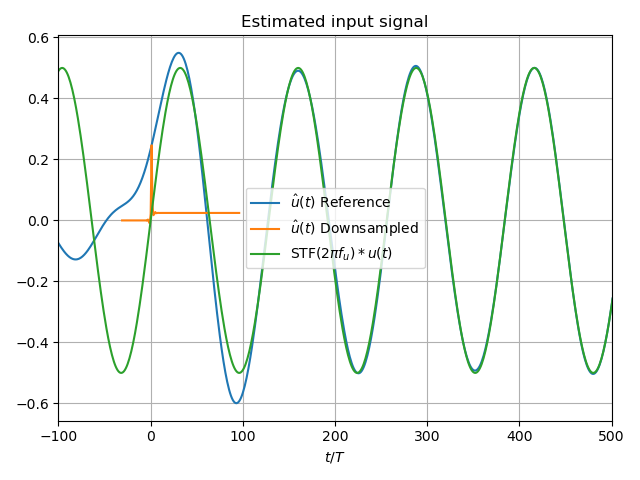
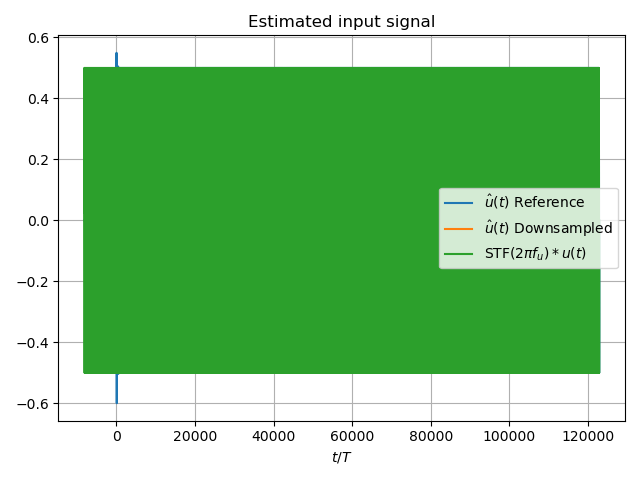
updates to downsample

diff --git a/docs/source/auto_examples/b_general/plot_c_downsample.rst b/docs/source/auto_examples/b_general/plot_c_downsample.rst
@@ -243,7 +243,7 @@ which then defaults to 1, i.e., no downsampling.
     print(f"eta2 = {eta2}, {20 * np.log10(eta2)} [dB]")
 
     # Set the filter size
-    L1 = 1 << 12
+    L1 = 1 << 13
     L2 = L1
 
     # Instantiate the digital estimator.
@@ -267,25 +267,25 @@ which then defaults to 1, i.e., no downsampling.
     FIR estimator is parameterized as 
     eta2 = 115878063.84, 161 [dB],
     Ts = 8e-05,
-    K1 = 4096,
-    K2 = 4096,
+    K1 = 8192,
+    K2 = 8192,
     and
     number_of_iterations = 9223372036854775808.
     Resulting in the filter coefficients
     h = 
-    [[[-2.45633103e-14  2.77920413e-15  3.61008746e-16 -3.20109883e-17]]
+    [[[-1.23187868e-26 -2.39473543e-26  5.80493210e-28  1.51037337e-28]]
 
-     [[-2.59982865e-14  2.46960234e-15  3.89538044e-16 -3.07690960e-17]]
+     [[-3.00992717e-28 -2.42199830e-26  3.86730978e-28  1.59530864e-28]]
 
-     [[-2.72798670e-14  2.13972804e-15  4.15858851e-16 -2.93080665e-17]]
+     [[ 1.18724466e-26 -2.43361020e-26  1.87936626e-28  1.67079138e-28]]
 
      ...
 
-     [[-2.72798670e-14 -2.66559044e-15  3.69555595e-16  3.68286915e-17]]
+     [[ 1.18724466e-26  2.45649663e-26  6.59216255e-28 -1.59258676e-28]]
 
-     [[-2.59982865e-14 -2.97076034e-15  3.37114191e-16  3.77324091e-17]]
+     [[-3.00992696e-28  2.42141852e-26  8.53514394e-28 -1.47956841e-28]]
 
-     [[-2.45633103e-14 -3.25270078e-15  3.02883500e-16  3.83786068e-17]]]. 
+     [[-1.23187868e-26  2.37098947e-26  1.03979256e-27 -1.35832631e-28]]]. 
 
 
 
@@ -385,25 +385,25 @@ Next we repeat the initalization steps above but for a downsampled estimator
     FIR estimator is parameterized as 
     eta2 = 115878063.84, 161 [dB],
     Ts = 8e-05,
-    K1 = 4096,
-    K2 = 4096,
+    K1 = 8192,
+    K2 = 8192,
     and
     number_of_iterations = 9223372036854775808.
     Resulting in the filter coefficients
     h = 
-    [[[-2.45633103e-14  2.77920413e-15  3.61008746e-16 -3.20109883e-17]]
+    [[[-1.23187868e-26 -2.39473543e-26  5.80493210e-28  1.51037337e-28]]
 
-     [[-2.59982865e-14  2.46960234e-15  3.89538044e-16 -3.07690960e-17]]
+     [[-3.00992717e-28 -2.42199830e-26  3.86730978e-28  1.59530864e-28]]
 
-     [[-2.72798670e-14  2.13972804e-15  4.15858851e-16 -2.93080665e-17]]
+     [[ 1.18724466e-26 -2.43361020e-26  1.87936626e-28  1.67079138e-28]]
 
      ...
 
-     [[-2.72798670e-14 -2.66559044e-15  3.69555595e-16  3.68286915e-17]]
+     [[ 1.18724466e-26  2.45649663e-26  6.59216255e-28 -1.59258676e-28]]
 
-     [[-2.59982865e-14 -2.97076034e-15  3.37114191e-16  3.77324091e-17]]
+     [[-3.00992696e-28  2.42141852e-26  8.53514394e-28 -1.47956841e-28]]
 
-     [[-2.45633103e-14 -3.25270078e-15  3.02883500e-16  3.83786068e-17]]]. 
+     [[-1.23187868e-26  2.37098947e-26  1.03979256e-27 -1.35832631e-28]]]. 
 
 
 
@@ -415,40 +415,29 @@ Estimating (Filtering)
 ----------------------
 
 
-.. GENERATED FROM PYTHON SOURCE LINES 185-197
+.. GENERATED FROM PYTHON SOURCE LINES 185-195
 
 .. code-block:: default
    :lineno-start: 186
 
 
     # Set simulation length
-    size = L2 << 2
+    size = L2 << 4
     u_hat_ref = np.zeros(size)
     u_hat_dow = np.zeros(size // OSR)
     for index in range(size):
         u_hat_ref[index] = next(digital_estimator_ref)
-    print("T1")
     for index in range(size // OSR):
         u_hat_dow[index] = next(digital_estimator_dow)
-    print("T2")
 
 
 
 
 
-.. rst-class:: sphx-glr-script-out
-
- Out:
-
- .. code-block:: none
-
-    T1
-    T2
 
 
 
-
-.. GENERATED FROM PYTHON SOURCE LINES 198-203
+.. GENERATED FROM PYTHON SOURCE LINES 196-201
 
 Visualizing Results
 -------------------
@@ -456,10 +445,10 @@ Visualizing Results
 Finally, we summarize the comparision by visualizing the resulting estimate
 in both time and frequency domain.
 
-.. GENERATED FROM PYTHON SOURCE LINES 203-237
+.. GENERATED FROM PYTHON SOURCE LINES 201-235
 
 .. code-block:: default
-   :lineno-start: 203
+   :lineno-start: 201
 
     from cbadc.utilities import compute_power_spectral_density
 
@@ -476,7 +465,7 @@ in both time and frequency domain.
     plt.legend()
     plt.title("Estimated input signal")
     plt.grid(which='both')
-    plt.xlim((-100, 500))
+    # plt.xlim((-100, 500))
     plt.tight_layout()
 
     plt.figure()
@@ -520,7 +509,7 @@ in both time and frequency domain.
 
  .. code-block:: none
 
-    /home/hammal/anaconda3/envs/py38/lib/python3.8/site-packages/scipy/signal/spectral.py:1961: UserWarning: nperseg = 4096 is greater than input length  = 64, using nperseg = 64
+    /home/hammal/anaconda3/envs/py38/lib/python3.8/site-packages/scipy/signal/spectral.py:1961: UserWarning: nperseg = 4096 is greater than input length  = 896, using nperseg = 896
       warnings.warn('nperseg = {0:d} is greater than input length '
 
 
@@ -529,7 +518,7 @@ in both time and frequency domain.
 
 .. rst-class:: sphx-glr-timing
 
-   **Total running time of the script:** ( 1 minutes  4.054 seconds)
+   **Total running time of the script:** ( 5 minutes  53.276 seconds)
 
 
 .. _sphx_glr_download_auto_examples_b_general_plot_c_downsample.py:

diff --git a/docs/source/auto_examples/b_general/sg_execution_times.rst b/docs/source/auto_examples/b_general/sg_execution_times.rst
@@ -5,10 +5,10 @@
 
 Computation times
 =================
-**01:04.054** total execution time for **auto_examples_b_general** files:
+**05:53.276** total execution time for **auto_examples_b_general** files:
 
 +-------------------------------------------------------------------------------------------------------+-----------+--------+
-| :ref:`sphx_glr_auto_examples_b_general_plot_c_downsample.py` (``plot_c_downsample.py``)               | 01:04.054 | 0.0 MB |
+| :ref:`sphx_glr_auto_examples_b_general_plot_c_downsample.py` (``plot_c_downsample.py``)               | 05:53.276 | 0.0 MB |
 +-------------------------------------------------------------------------------------------------------+-----------+--------+
 | :ref:`sphx_glr_auto_examples_b_general_plot_a_compare_estimator.py` (``plot_a_compare_estimator.py``) | 00:00.000 | 0.0 MB |
 +-------------------------------------------------------------------------------------------------------+-----------+--------+
